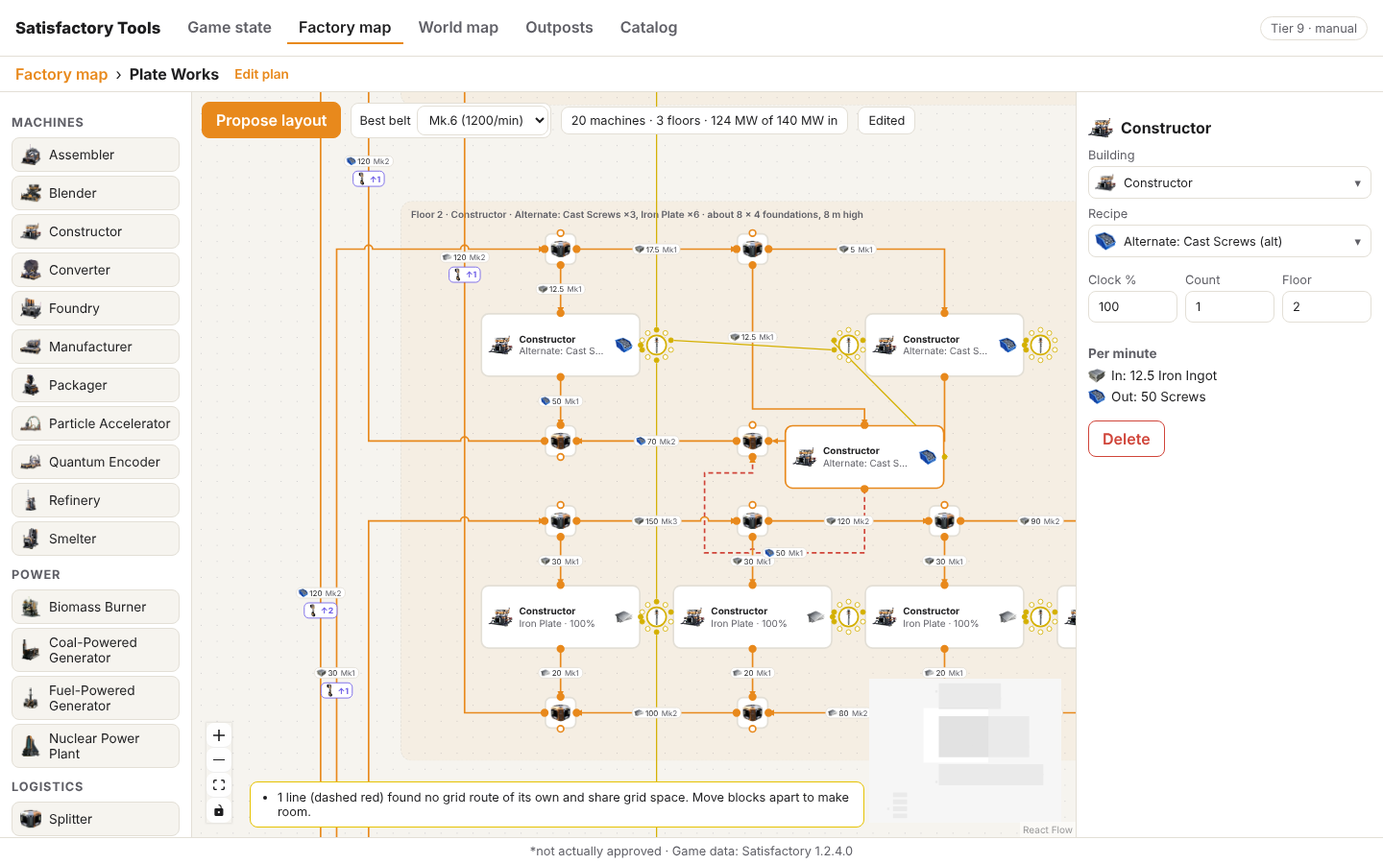
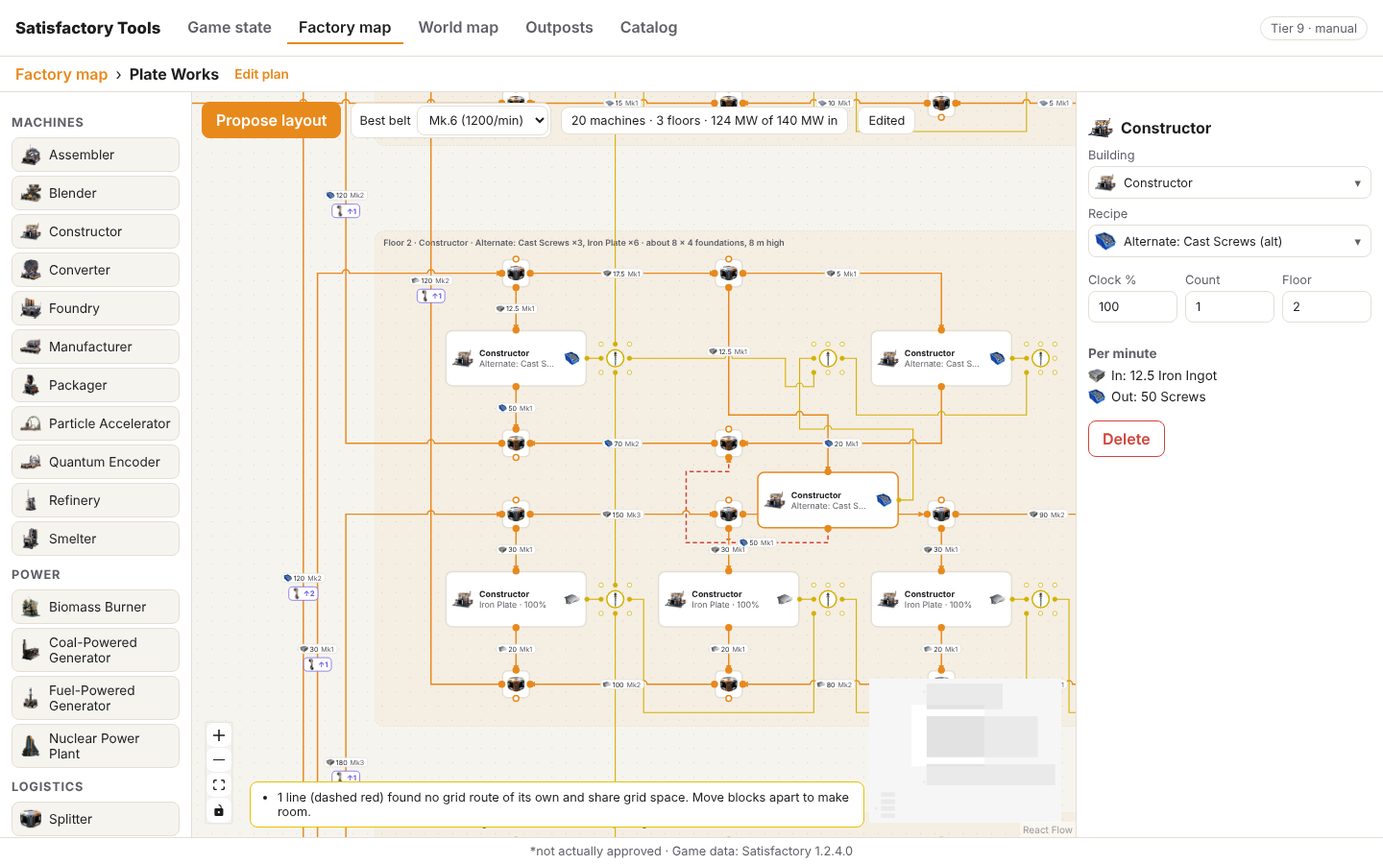
Floor plan: run power lines on the grid
Power lines now route on the grid like belts, after belts and pipes, so
they never share a grid edge with them and only cross straight through.
Pole connection points sit on grid vertices (side middles, then
corners), machines sit further apart so each pole has a free grid line
past it, and power ports face their pole.

Claude-Session: https://claude.ai/code/session_01J2u19PCJCBKDg51nc9NJsY

Changed region(s): [[0.1875, 0.1556, 0.7812, 0.9022], [0.3438, 0.0933, 0.7812, 0.1556], [0.6562, 0.84, 0.6875, 0.8711]]

diff --git a/src/editor/generate.ts b/src/editor/generate.ts
@@ -8,7 +8,7 @@
 // the gutter. Where a source feeds several consumers it gets splitters right after it; where a
 // consumer takes from several sources it gets mergers right before it. All belts are routed
 // later, on the grid (gridRouter.ts). Fluids get pipes and pipeline junctions instead of belts,
-// splitters and mergers. Power runs on straight power lines: a pole right of every machine,
+// splitters and mergers. Power lines run on the grid too: a pole right of every machine,
 // chained along each line, from the power ports to the generators and machines.
 import { itemsById } from '../data'
 import { anchors, G, inHandle, outHandle, poleHandle, SIZE, sideDir, SPREAD, type Cell, type Side } from './grid'
@@ -19,7 +19,8 @@ export { fmt }
 export type { PortLink } from './layout'
 export type ProposalInput = LayoutInput
 
-const MACHINE_PITCH = SIZE.machine.w + 2
+/** Each machine has its pole one cell to its right, then a free grid line for the power line to the next pole. */
+const MACHINE_PITCH = SIZE.machine.w + 1 + SIZE.pole.w + 2
 /** Grid cells between manifold rows, and between joints in a chain. */
 const ROW = 4
 const FLOOR_GAP = 6
@@ -135,7 +136,7 @@ export function proposeLayout(input: ProposalInput): MicroGraph {
     )
     const mx = (i: number) => margin + i * MACHINE_PITCH
     const n = l.machines
-    powered.push({ floor, clients: machines.map((m, i) => ({ node: m, handle: 'power', pole: { x: mx(i) + SIZE.machine.w, y: mt + 1 } })) })
+    powered.push({ floor, clients: machines.map((m, i) => ({ node: m, handle: 'power', pole: { x: mx(i) + SIZE.machine.w + 1, y: mt + SIZE.machine.h / 2 - SIZE.pole.h / 2 } })) })
 
     // What machine i takes or makes per minute: the first ones run full, the last one idles part of the time.
     const load = (perMin: number) => (i: number) => (l.busy > EPS ? (perMin / l.busy) * Math.min(1, Math.max(0, l.busy - i)) : 0)
@@ -193,7 +194,7 @@ export function proposeLayout(input: ProposalInput): MicroGraph {
     const at = { x: portX, y: portY }
     const nid = block('port', at, { kind: 'port', ...data }, 0)
     const handle = p.direction === 'in' ? 'out' : 'in'
-    const pole = { x: portX - 5, y: portY + 1 }
+    const pole = { x: portX - 3 - SIZE.pole.w, y: portY + SIZE.port.h / 2 - SIZE.pole.h / 2 }
     if (p.transport === 'power') portPower.push({ node: nid, handle, pole })
     else if (p.transport === 'resource') portPower.push({ node: nid, handle: 'power', pole })
     ends.set(`${p.direction === 'in' ? 'o' : 'i'}p:${pid}`, { node: nid, handle, at: { x: portX + SIZE.port.w, y: portY + SIZE.port.h / 2 }, side: 'r', floor: 0 })
@@ -280,7 +281,10 @@ export function proposeLayout(input: ProposalInput): MicroGraph {
   return { nodes, edges, maxBeltTier, maxPipeTier, version: LAYOUT_VERSION, generatedAt: new Date().toISOString(), notes }
 }
 
-/** Give each pole's power lines the connection points round the pole that face them, so wires don't cross over the pole. */
+/**
+ * Give each pole's power lines the connection points round the pole that face them, so lines don't
+ * wrap round the pole. Lines to machines and ports pick first, since those sit right beside it.
+ */
 function nearestHandles(nodes: MicroNode[], edges: BeltEdge[]) {
   const byId = new Map(nodes.map((n) => [n.id, n]))
   const point = (id: string, handle: string | null | undefined) => {
@@ -298,8 +302,10 @@ function nearestHandles(nodes: MicroNode[], edges: BeltEdge[]) {
       .filter((e) => e.source === pole.id || e.target === pole.id)
       .map((e) => {
         const far = e.source === pole.id ? point(e.target, e.targetHandle) : point(e.source, e.sourceHandle)
-        return { e, angle: Math.atan2(far.y - c.y, far.x - c.x) }
+        const other = byId.get(e.source === pole.id ? e.target : e.source)
+        return { e, angle: Math.atan2(far.y - c.y, far.x - c.x), toPole: other?.type === 'pole' }
       })
+      .sort((p, q) => Number(p.toPole) - Number(q.toPole))
     for (const { e, angle } of mine) {
       let best = ''
       let bestD = Infinity

diff --git a/src/editor/grid.ts b/src/editor/grid.ts
@@ -36,11 +36,11 @@ export function overlaps(a: Cell, at: BlockKind, b: Cell, bt: BlockKind, gap = 0
 
 /**
  * The free grid spot nearest to `want` for a block of `type`: a grid line clear all round it, so
- * belts can reach its connection points. Power poles may sit right against a block.
+ * belts and power lines can reach its connection points.
  */
 export function freeSpot(nodes: MicroNode[], id: string, type: BlockKind, want: Cell): Cell {
   const others = nodes.filter((n) => n.id !== id && isBlock(n)).map((n) => ({ at: cellOf(n), type: n.type as BlockKind }))
-  const free = (c: Cell) => others.every((o) => !overlaps(c, type, o.at, o.type, type === 'pole' || o.type === 'pole' ? 0 : 1))
+  const free = (c: Cell) => others.every((o) => !overlaps(c, type, o.at, o.type, 1))
   if (free(want)) return want
   for (let r = 1; r < 200; r++) {
     let best: Cell | undefined
@@ -117,20 +117,27 @@ export function anchors(type: BlockKind, data: MicroNodeData, o: Orient = UPRIGH
     return out
   }
   if (type === 'pole') {
-    // Round the pole, starting at the top and going clockwise. Power lines are straight, so these needn't sit on grid vertices.
-    const n = poleSize(data)
+    // Grid vertices round the pole, so power lines run on the grid like belts: the middle of each
+    // side first, then the corners. A 2x2 pole has eight, so a Mk.3 shows eight of its ten.
+    const ring: Anchor[] = [
+      { dx: w / 2, dy: 0, side: 't' },
+      { dx: w, dy: h / 2, side: 'r' },
+      { dx: w / 2, dy: h, side: 'b' },
+      { dx: 0, dy: h / 2, side: 'l' },
+      // Corners leave up or down: a pole often stands one cell from a machine's side.
+      { dx: w, dy: 0, side: 't' },
+      { dx: w, dy: h, side: 'b' },
+      { dx: 0, dy: h, side: 'b' },
+      { dx: 0, dy: 0, side: 't' },
+    ]
     const out: Record<string, Anchor> = {}
-    for (let i = 0; i < n; i++) {
-      const t = -Math.PI / 2 + (i * 2 * Math.PI) / n
-      const x = Math.cos(t)
-      const y = Math.sin(t)
-      const side: Side = Math.abs(x) > Math.abs(y) ? (x > 0 ? 'r' : 'l') : y > 0 ? 'b' : 't'
-      out[poleHandle(i)] = { dx: w / 2 + x * 0.95, dy: h / 2 + y * 0.95, side }
-    }
+    ring.slice(0, poleSize(data)).forEach((a, i) => (out[poleHandle(i)] = a))
     return out
   }
   if (type === 'port') {
-    const main: Record<string, Anchor> = data.kind === 'port' && data.direction === 'out' ? { in: at('l') } : { out: at('r') }
+    // Power ports face their pole on the left; the rest face the belts on the right.
+    const power = data.kind === 'port' && data.transport === 'power'
+    const main: Record<string, Anchor> = data.kind === 'port' && data.direction === 'out' ? { in: at('l') } : { out: at(power ? 'l' : 'r') }
     // Extractors on a resource node draw power from the side away from their belt.
     return hasPower(data) ? { ...main, [POWER_HANDLE]: at('l') } : main
   }
@@ -217,8 +224,8 @@ export function orientAll(nodes: MicroNode[], edges: BeltEdge[]): Map<string, Or
     if (!isBlock(n) || n.type === 'machine' || n.type === 'pole') continue
     const links: { handle: string; at: Cell }[] = []
     for (const e of edges) {
-      // Power lines are straight wires: they don't turn anything.
-      if (edgeMedium(e, byId) === 'power') continue
+      // Power lines don't turn joints, but an extractor's port also faces its pole.
+      if (n.type !== 'port' && edgeMedium(e, byId) === 'power') continue
       if (e.source === n.id) {
         const at = peerPoint(e.target, e.targetHandle)
         if (at) links.push({ handle: e.sourceHandle ?? 'out', at })

diff --git a/src/editor/floorplan.test.ts b/src/editor/floorplan.test.ts
@@ -5,6 +5,7 @@ import { solvePlan } from '../plan/network'
 import type { OutpostPlan } from '../plan/types'
 import { connection, place } from './connect'
 import { inferFlows } from './flow'
+import { routeFloorPlan, routeSegments } from './gridRouter'
 import { gridBalance } from './power'
 import { proposeLayout } from './generate'
 import { cellOf, edgeMedium, overlaps, poleSize, type BlockKind } from './grid'
@@ -32,13 +33,13 @@ const coalPower = () =>
     maxBeltTier: 3,
     maxPoleTier: 1,
   })
-const plates = () =>
-  proposeLayout({
-    solved: solvePlan(plan({ goals: [{ kind: 'item', item: 'Desc_IronPlateReinforced_C', perMin: 20 }], recipeChoices: { Desc_IronScrew_C: 'Recipe_Screw_C' } }), all),
-    incoming: [],
-    outgoing: [],
-    maxBeltTier: 3,
-  })
+const plateInput = () => ({
+  solved: solvePlan(plan({ goals: [{ kind: 'item', item: 'Desc_IronPlateReinforced_C', perMin: 20 }], recipeChoices: { Desc_IronScrew_C: 'Recipe_Screw_C' } }), all),
+  incoming: [],
+  outgoing: [],
+  maxBeltTier: 3,
+})
+const plates = () => proposeLayout(plateInput())
 const byId = (g: MicroGraph) => new Map(g.nodes.map((n) => [n.id, n]))
 
 describe('pipes (#47)', () => {
@@ -83,6 +84,26 @@ describe('power (#48)', () => {
           }
       for (const p of poles) expect(seen.has(p), p).toBe(true)
     })
+
+  it('runs power lines on the grid, clear of belts and of each other', () => {
+    const mk3 = (tier: number) => proposeLayout({ ...plateInput(), maxPoleTier: tier })
+    for (const g of [coalPower(), plates(), mk3(2), mk3(3)]) {
+      const nodes = byId(g)
+      const r = routeFloorPlan(g.nodes, g.edges)
+      expect(r.clashes).toEqual([])
+      const seen = new Map<string, string>()
+      for (const e of g.edges) {
+        const pts = r.routes.get(e.id)!
+        expect(pts, e.id).toBeDefined()
+        // Only horizontal and vertical runs between grid points.
+        for (let i = 1; i < pts.length; i++) expect(pts[i].x === pts[i - 1].x || pts[i].y === pts[i - 1].y, e.id).toBe(true)
+        for (const s of routeSegments(pts)) {
+          expect(seen.get(s), `${e.id} (${edgeMedium(e, nodes)}) shares ${s} with ${seen.get(s)}`).toBeUndefined()
+          seen.set(s, e.id)
+        }
+      }
+    }
+  })
 })
 
 describe('connection points (#50)', () => {
@@ -161,11 +182,11 @@ describe('grid (#52)', () => {
     const placed = place(g.nodes, { id: 'new', type: 'machine', position: { ...m.position }, data: m.data })
     expect(placed.position).not.toEqual(m.position)
     for (const n of g.nodes.filter((x) => x.type && x.type !== 'floor'))
-      expect(overlaps(cellOf(placed), 'machine', cellOf(n), n.type as BlockKind, n.type === 'pole' ? 0 : 1), n.id).toBe(false)
+      expect(overlaps(cellOf(placed), 'machine', cellOf(n), n.type as BlockKind, 1), n.id).toBe(false)
   })
 })
 
-describe('full clock and overflow (#73)', () => {
+describe('full clock and overflow (#60)', () => {
   it('runs every machine at 100% and lets the last one on the manifold idle', () => {
     const g = proposeLayout({
       solved: solvePlan(plan({ goals: [{ kind: 'item', item: 'Desc_IronPlate_C', perMin: 50 }], recipeChoices: { Desc_IronPlate_C: 'Recipe_IronPlate_C', Desc_IronIngot_C: 'Recipe_IngotIron_C' } }), all),

diff --git a/src/editor/gridRouter.ts b/src/editor/gridRouter.ts
@@ -1,8 +1,9 @@
-// Routes floor-plan belts and pipes along the grid (grid.ts) so they stay readable: belts run on grid
+// Routes floor-plan belts, pipes and power lines along the grid (grid.ts) so they stay readable: belts run on grid
 // lines, no two belts share a grid edge, a belt only turns where no other belt is, and two
 // belts may only meet where they cross straight through each other (drawn with a hop).
 // Each belt is an A* search over grid vertices that avoids blocks and the belts routed
-// before it, preferring few turns and few crossings. Short belts (manifolds) go first.
+// before it, preferring few turns and few crossings. Short belts (manifolds) go first; power
+// lines go last, so they make way for belts and pipes.
 import { cellOf, edgeMedium, G, handleCell, isBlock, orientAll, SIZE, type Cell, type Orient, type Side } from './grid'
 import type { BeltEdge, MicroNode } from './model'
 import type { Point } from './router'
@@ -74,22 +75,20 @@ export function routeFloorPlan(nodes: MicroNode[], edges: BeltEdge[]): Routes {
     return idx(x, y) * 2 + (d === 0 ? 0 : 1)
   }
 
-  // Power lines are straight wires between poles and machines, so they skip the grid.
   const ends = edges.flatMap((e) => {
-    if (edgeMedium(e, byId) === 'power') return []
     const s = byId.get(e.source)
     const t = byId.get(e.target)
     if (!s || !t) return []
     const a = handleCell(s, e.sourceHandle ?? 'out', orients.get(s.id))
     const b = handleCell(t, e.targetHandle ?? 'in', orients.get(t.id))
-    return a && b ? [{ e, a, b }] : []
+    return a && b ? [{ e, a, b, power: edgeMedium(e, byId) === 'power' }] : []
   })
   // The grid spot just outside every connection point belongs to that point's belt: others keep off it.
   const reserved = new Uint8Array(W * H)
   const stepOut = (c: Cell & { side: Side }) => ({ x: c.x + DX[dirOf[c.side]], y: c.y + DY[dirOf[c.side]] })
   for (const { a, b } of ends)
     for (const c of [stepOut(a), stepOut(b)]) if (inside(c.x, c.y)) reserved[idx(c.x, c.y)] = 1
-  ends.sort((p, q) => Math.abs(p.a.x - p.b.x) + Math.abs(p.a.y - p.b.y) - (Math.abs(q.a.x - q.b.x) + Math.abs(q.a.y - q.b.y)))
+  ends.sort((p, q) => Number(p.power) - Number(q.power) || Math.abs(p.a.x - p.b.x) + Math.abs(p.a.y - p.b.y) - (Math.abs(q.a.x - q.b.x) + Math.abs(q.a.y - q.b.y)))
 
   // Search state, reused across belts: a state is valid only when its stamp matches.
   const N = W * H * 4

diff --git a/src/editor/nodes.tsx b/src/editor/nodes.tsx
@@ -282,15 +282,22 @@ export function FloorBand({ data }: NodeProps<MicroNode>) {
   )
 }
 
-/** A belt, pipe or power line on the floor plan. Belts and pipes follow their grid route; power lines run straight. */
+/** A belt, pipe or power line on the floor plan, following its grid route. */
 export function BeltLine(props: EdgeProps<BeltEdge>) {
   const { id, source, target, sourceX, sourceY, targetX, targetY, sourcePosition, targetPosition, data, selected } = props
   const view = useContext(FloorPlanContext)
   const load = view?.loads.get(id)
   const medium = load?.medium ?? data?.medium ?? 'solid'
-  if (medium === 'power')
-    return <BaseEdge path={`M${sourceX},${sourceY}L${targetX},${targetY}`} className={`ne-wire${selected ? ' selected' : ''}`} />
-  return <FlowLine {...props} load={load} medium={medium} grid={view && !view.dragging.has(source) && !view.dragging.has(target) ? view.routes.get(id) : undefined} clash={!!view?.clashes.has(id)} sx={sourceX} sy={sourceY} tx={targetX} ty={targetY} sp={sourcePosition} tp={targetPosition} />
+  const grid = view && !view.dragging.has(source) && !view.dragging.has(target) ? view.routes.get(id) : undefined
+  if (medium === 'power') return <WireLine id={id} grid={grid} selected={!!selected} clash={!!view?.clashes.has(id)} sx={sourceX} sy={sourceY} tx={targetX} ty={targetY} sp={sourcePosition} tp={targetPosition} />
+  return <FlowLine {...props} load={load} medium={medium} grid={grid} clash={!!view?.clashes.has(id)} sx={sourceX} sy={sourceY} tx={targetX} ty={targetY} sp={sourcePosition} tp={targetPosition} />
+}
+
+/** A power line: on the grid like a belt, but thin, with no direction and nothing carried. */
+function WireLine({ id, grid, selected, clash, sx, sy, tx, ty, sp, tp }: { id: string; grid?: Point[]; selected: boolean; clash: boolean; sx: number; sy: number; tx: number; ty: number; sp: Position; tp: Position }) {
+  const pts = useMemo(() => grid ?? route(id, { x: sx, y: sy }, sp, { x: tx, y: ty }, tp), [grid, id, sx, sy, sp, tx, ty, tp])
+  const path = useRoutedPath(id, pts)
+  return <BaseEdge path={path} className={`ne-wire${clash ? ' clash' : ''}${selected ? ' selected' : ''}`} />
 }
 
 function FlowLine({

diff --git a/src/editor/layout.test.ts b/src/editor/layout.test.ts
@@ -30,7 +30,7 @@ const plan = (patch: Partial<OutpostPlan>): OutpostPlan => ({
   ...patch,
   recipeChoices: { ...standard, ...patch.recipeChoices },
 })
-/** Belts and pipes: power lines are straight wires and skip the grid. */
+/** Belts and pipes, without power lines. */
 const lines = <E extends { data?: { medium?: string } }>(edges: E[]) => edges.filter((e) => e.data?.medium !== 'power')
 const ironImport = (perMin: number) => ({ linkId: 'ore', other: 'Iron Fields', transport: 'belt' as const, item: 'Desc_OreIron_C', perMin })
 // The example from #13: 20 Reinforced Iron Plate/min from 240 Iron Ore/min.
@@ -107,7 +107,7 @@ describe('floor plan on the grid', () => {
 
   it('routes every belt with at most one belt per grid edge', () => {
     const { routes, clashes } = routeFloorPlan(graph.nodes, graph.edges)
-    expect(routes.size).toBe(lines(graph.edges).length)
+    expect(routes.size).toBe(graph.edges.length)
     expect(clashes).toEqual([])
     const seen = new Map<string, string>()
     for (const [id, pts] of routes)
@@ -139,7 +139,7 @@ describe('bigger outposts', () => {
     const solved = solvePlan(plan({ goals: [{ kind: 'item', item, perMin }], recipeChoices: {} }), all)
     const g = proposeLayout({ solved, incoming: [], outgoing: [], maxBeltTier: tier })
     const r = routeFloorPlan(g.nodes, g.edges)
-    expect(r.routes.size).toBe(lines(g.edges).length)
+    expect(r.routes.size).toBe(g.edges.length)
     expect(r.clashes).toEqual([])
     // What each belt carries can be worked out again from the blocks it joins.
     const flows = inferFlows(g.nodes, g.edges)

diff --git a/src/editor/layout.ts b/src/editor/layout.ts
@@ -10,7 +10,7 @@
 //   of the best unlocked tier can't carry its input or output, or when it would have more
 //   than MAX_PER_LINE machines. All machines in a step run at the solver's clock. When they
 //   don't divide evenly the manifold feeds them in order, so the first ones run full and the
-//   last one idles part of the time (#73).
+//   last one idles part of the time (#60).
 // - Imports and exports that one belt can't carry get one port per belt.
 // - Belts pair each item's sources with its consumers in order, never above either's rate.
 import { buildingsById, itemName, itemsById, recipesById } from '../data'
@@ -271,7 +271,7 @@ export function planLayout({ solved, incoming, outgoing, maxBeltTier, maxPipeTie
   }
   const flows: Flow[] = []
   // Surplus of an item a line also uses leaves through the end of that line's manifold, as
-  // overflow past its last machine, not split off before its first (#73). The last line that
+  // overflow past its last machine, not split off before its first (#60). The last line that
   // uses it takes it, if its belt has room.
   for (const [item, cons] of consumers) {
     const lineSlots = cons.filter((c) => 'line' in c.end).sort((a, b) => a.order - b.order)

diff --git a/src/editor/EditorScreen.tsx b/src/editor/EditorScreen.tsx
@@ -665,7 +665,7 @@ const jointInfo: Partial<Record<MicroNode['data']['kind'], [string, string]>> = 
   splitter: ['Splitter', 'One belt in at the back, up to three out: ahead, left and right. Its connection points turn to face the belts on their own.'],
   merger: ['Merger', 'Up to three belts in: back, left and right. One out ahead. Its connection points turn to face the belts on their own.'],
   junction: ['Pipeline Junction', 'Four pipe connections, each one in or out: it splits a pipe, joins pipes, or both. Fluids never go through splitters or mergers.'],
-  pole: ['Power Pole', 'Takes as many power lines as the game allows for its Mk (4, 7 or 10), one per connection point. Power lines run straight, not along the grid.'],
+  pole: ['Power Pole', 'Takes as many power lines as the game allows for its Mk (4, 7 or 10), one per connection point; a Mk.3 shows eight here. Power lines run on the grid.'],
 }
 
 /**

diff --git a/src/editor/flow.ts b/src/editor/flow.ts
@@ -94,7 +94,7 @@ export function inferFlows(nodes: MicroNode[], edges: BeltEdge[]): Map<string, F
   // Machine outputs and ports feed in what they make; machine inputs and ports take what they need;
   // a line set by hand carries at most its rate. Joints pass anything through.
   // A machine only runs as busy as its outputs can get rid of what it makes: the last machines on a
-  // manifold idle part of the time (#73). Each machine's share of busy time comes from the sinks
+  // manifold idle part of the time (#60). Each machine's share of busy time comes from the sinks
   // backwards: solve with every output able to make its full rate and every input taking its
   // machine's busy share, see what each output got rid of, and repeat until that settles. The
   // final flow then has every machine make and take its busy share.

diff --git a/src/editor/Inspector.tsx b/src/editor/Inspector.tsx
@@ -431,7 +431,7 @@ export function BeltInspector({ data, load, onChange, onDelete }: { data: BeltDa
     return (
       <section>
         <h3>{name}</h3>
-        <p className="ne-help">Carries power between a pole and what it feeds. Power lines run straight, not along the grid.</p>
+        <p className="ne-help">Carries power between a pole and what it feeds. Power lines run on the grid like belts, after belts and pipes have their routes.</p>
         <div className="ne-actions">
           <button type="button" className="danger" onClick={onDelete}>
             Delete

diff --git a/src/editor/editor.css b/src/editor/editor.css
@@ -152,3 +152,4 @@ a.button { display: inline-block; border-radius: 8px; text-decoration: none; fon
 .pw-share span { display: block; height: 100%; background: #d4b000; }
 .pw-dir { width: 22px; text-align: center; color: #d4b000; font-weight: 700; }
 .pw-rows .pw-row-btn:hover { background: color-mix(in srgb, var(--accent) 10%, transparent); }
+.ne-wire.clash { stroke: var(--danger); stroke-dasharray: 4 3; }

diff --git a/docs/node-editor.md b/docs/node-editor.md
@@ -48,7 +48,7 @@ With no outposts yet, the panel offers **Load example outposts**: Iron Fields (t
 The first time you open an outpost, the editor proposes a floor plan from the plan's solution (`src/editor/layout.ts`, then `generate.ts` puts it on the grid):
 
 - **One floor per production type.** Steps that use the same machine at the same depth of the chain share a floor: smelting, then plates and rods, then screws, then assembly. A floor sits one level above the highest floor that feeds it, so raw processing is at the bottom and the goal at the top. Each floor's label gives its size in foundations (machines side by side along the manifold, a belt per input and output, a walkway) and its height.
-- **Manifolds.** Each step is a row of identical machines. Above it, a splitter chain per ingredient feeds every machine; below it, a merger chain per product collects them. Machines run at full clock (#73): 2.5 machines of work is 3 machines at 100%, and the manifold feeds them in order, so the first two run full and the last one idles half the time. Belts show that: full loads into the first machines, less into the last. A plan can ask to underclock them all evenly instead.
+- **Manifolds.** Each step is a row of identical machines. Above it, a splitter chain per ingredient feeds every machine; below it, a merger chain per product collects them. Machines run at full clock (#60): 2.5 machines of work is 3 machines at 100%, and the manifold feeds them in order, so the first two run full and the last one idles half the time. Belts show that: full loads into the first machines, less into the last. A plan can ask to underclock them all evenly instead.
 - **Lines split to fit your best belt.** When one belt (or pipe) of your best tier can't carry a step's input or output, the step becomes several parallel lines, each with its own belts. A line also splits above 16 machines. Imports and exports that need more than one belt get one port per belt. Each belt gets the lowest Mk that carries its rate, and turns red only when even the best can't (one machine needing more than a belt carries).
 - **Surplus overflows.** When the outpost has more of something than it uses (ore from a node, say), the surplus leaves through the end of the manifold that uses it: the belt carries on past the last machine to the export port, instead of being split off before the first one. That only happens when the belt has room; otherwise the surplus gets its own belt.
 - **Imports are honored.** Anything the plan imports, say 240 Screws/min by truck, arrives at a port and is not made here.
@@ -68,9 +68,9 @@ Each line on the floor plan is one of three kinds, and each kind has its own col
 
 - **Belts** (orange) carry solids. They split at splitters and join at mergers.
 - **Pipes** (blue, thicker) carry fluids. They split and join at **pipeline junctions**, never at splitters or mergers. A junction has four connection points, each one in or out. Pipes are sized against pipeline Mk rates (300 and 600/min).
-- **Power lines** (thin yellow) run straight from a **power pole** to a machine, generator, extractor, power port or another pole, like wires in the game. They don't follow the grid. Poles take the game's number of lines for their Mk (Mk.1 4, Mk.2 7, Mk.3 10), one per connection point round the pole.
+- **Power lines** (thin yellow) run from a **power pole** to a machine, generator, extractor, power port or another pole. They follow the grid like belts: they are routed after belts and pipes, never share a grid edge with them, and only cross them straight through (with a hop). Poles take the game's number of lines for their Mk (Mk.1 4, Mk.2 7, Mk.3 10), one per connection point on the pole's border: the middle of each side, then the corners. A 2x2 pole has eight such points, so a Mk.3 shows eight of its ten.
 
-The proposal wires power on its own: a pole right of every machine, chained along each line; a riser through every line's first pole, bottom floor first; and a pole beside each power port and resource node (extractors need power too), chained down the port column. No pole takes more than four lines, so it works with Mk.1 poles; it uses the best pole you have unlocked.
+The proposal wires power on its own: a pole one cell right of every machine (machines sit further apart to leave a grid line free past each pole), chained along each line; a riser through every line's first pole, bottom floor first; and a pole beside each power port and resource node (extractors need power too), chained down the port column. No pole takes more than four lines, so it works with Mk.1 poles; it uses the best pole you have unlocked.
 
 ### Connection points
 
@@ -86,7 +86,7 @@ Select a belt to see its item and rate. Changing either sets it by hand, and the
 
 Everything on the floor plan sits on a 20 px grid (`src/editor/grid.ts`). Blocks have fixed sizes in grid cells and snap to the grid when dragged. Every connection point is a grid point on the block's border: a machine has one input per ingredient along its top, one output per product along its bottom, and a power point on its right.
 
-Blocks never overlap (#52). A block you drop or add lands on the nearest grid spot with a free grid line all round it, so belts can reach its connection points. Power poles may sit right against a block.
+Blocks never overlap (#52). A block you drop or add lands on the nearest grid spot with a free grid line all round it, so belts and power lines can reach its connection points.
 
 Belts and pipes are routed along grid lines (`src/editor/gridRouter.ts`) with these rules:
 
